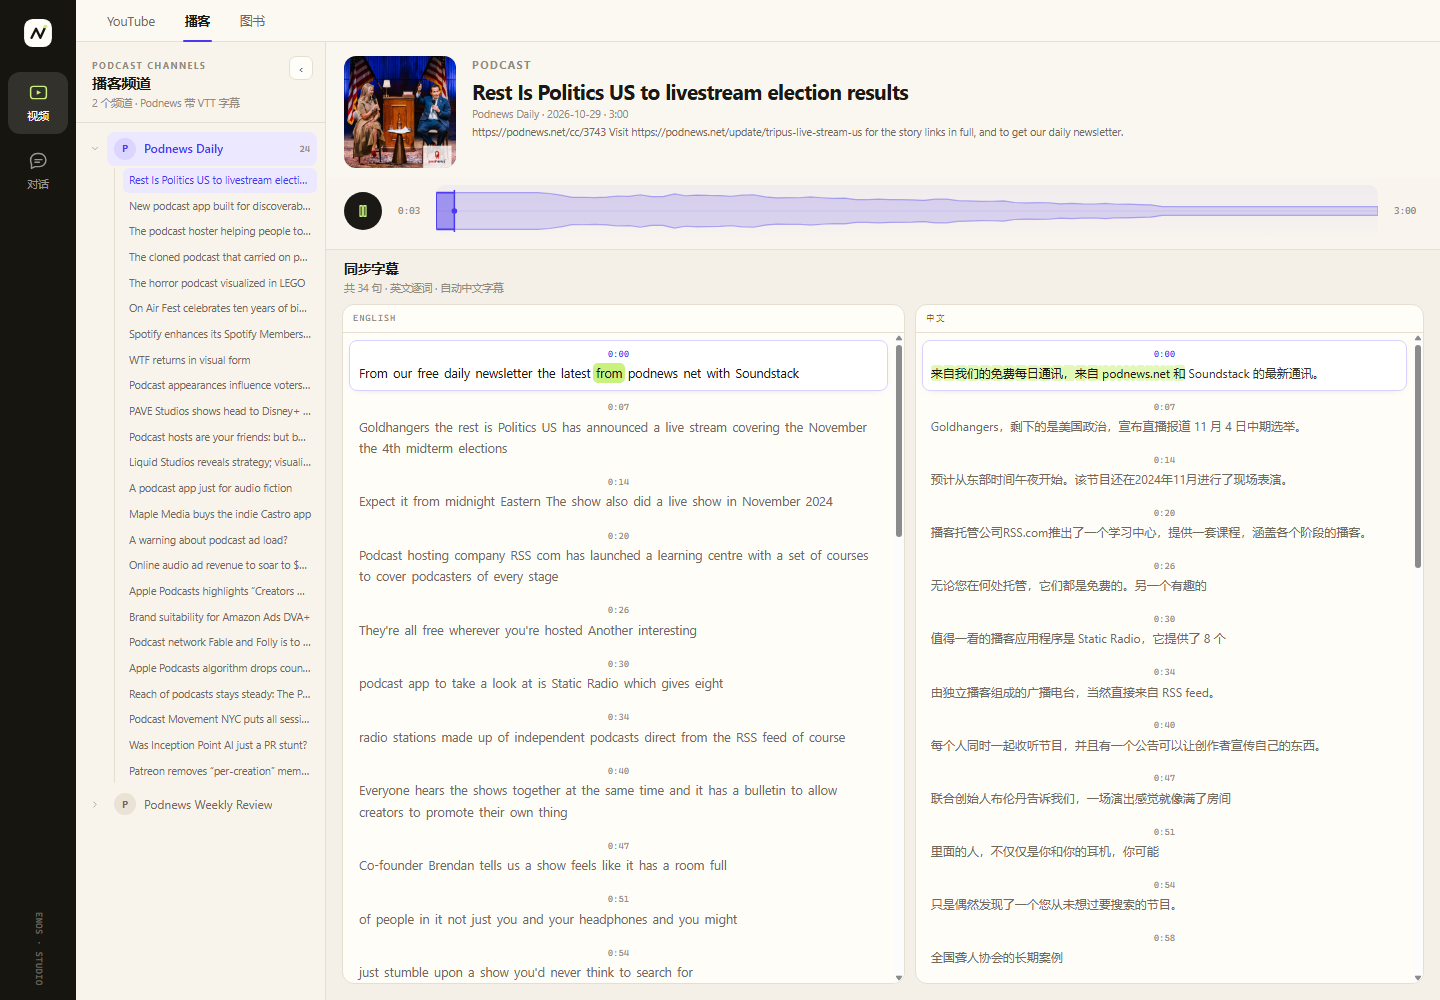
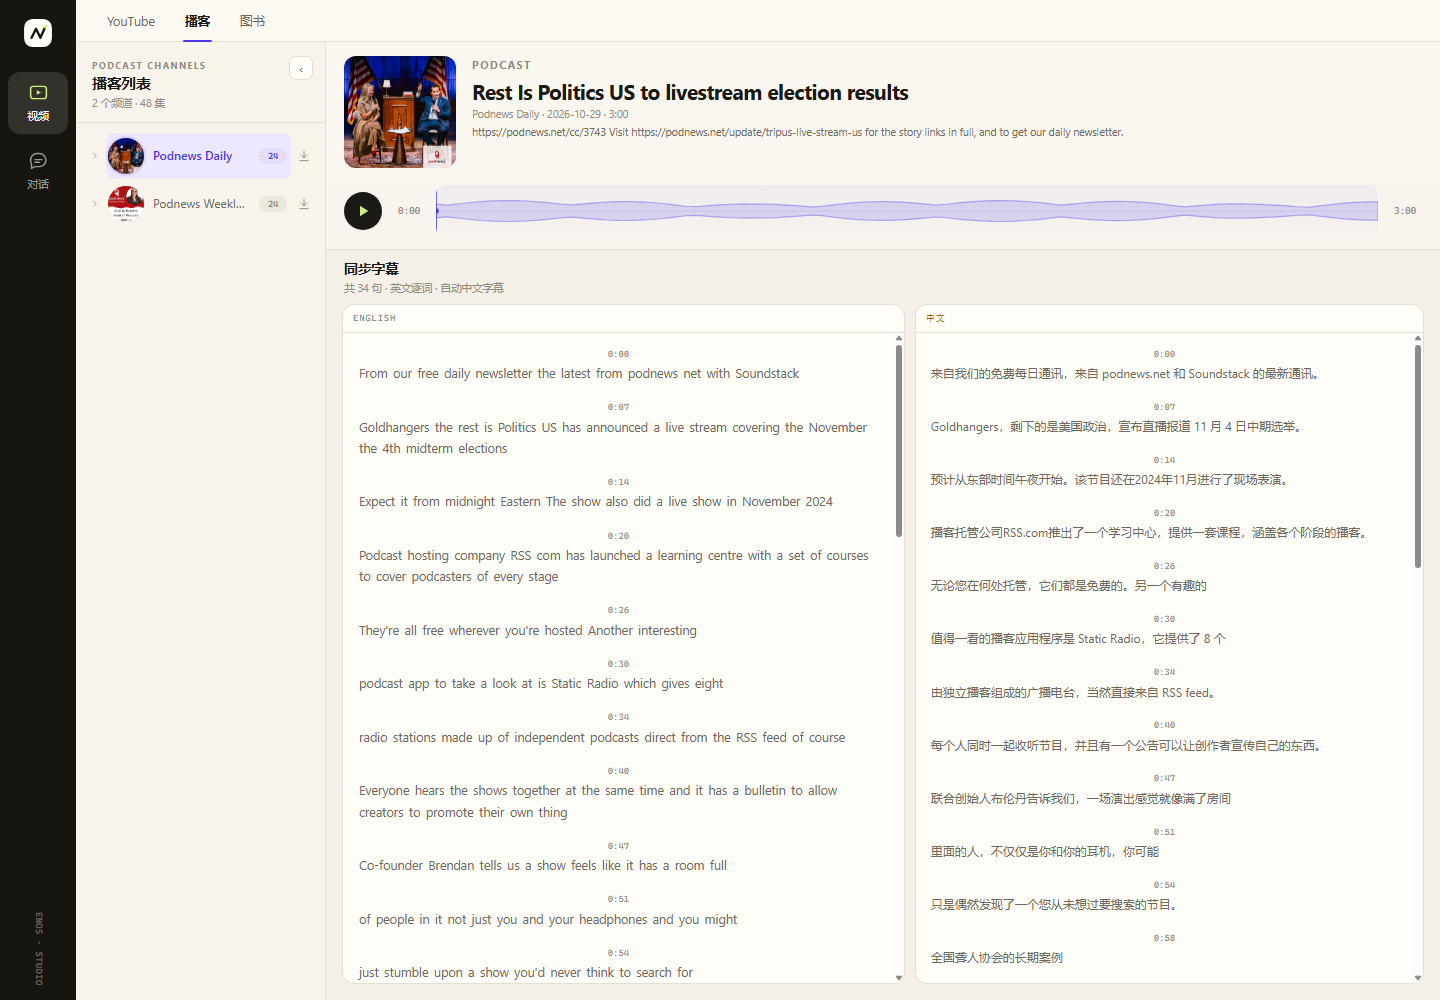
Improve podcast list and episode downloads
Show podcast covers and episode counts, cache episode loads, and add a download button for the latest episode.

diff --git a/public/js/videos.js b/public/js/videos.js
@@ -61,6 +61,7 @@ const podcast = {
   loading: false,
   channels: [],
   episodes: new Map(),
+  promises: new Map(),
   expanded: new Set(),
   selectedChannel: '',
   selectedEpisode: null,
@@ -349,13 +350,61 @@ function podcastChannelById(id) {
   return podcast.channels.find((channel) => channel.id === id) || null;
 }
 
+function loadPodcastEpisodes(channel) {
+  if (podcast.episodes.has(channel.id)) return Promise.resolve(podcast.episodes.get(channel.id));
+  if (podcast.promises.has(channel.id)) return podcast.promises.get(channel.id);
+  const promise = getPodcastEpisodes(channel.id)
+    .then((data) => {
+      const episodes = Array.isArray(data.episodes) ? data.episodes : [];
+      podcast.episodes.set(channel.id, episodes);
+      return episodes;
+    })
+    .finally(() => podcast.promises.delete(channel.id));
+  podcast.promises.set(channel.id, promise);
+  return promise;
+}
+
+function podcastChannelAvatar(channel, episodes) {
+  const image = episodes[0]?.image;
+  if (!image) return h('span', { class: 'podcast-avatar' }, initialOf(channel.name));
+  return h('span', { class: 'podcast-avatar' },
+    h('img', {
+      src: image,
+      alt: '',
+      loading: 'lazy',
+      onerror: (event) => {
+        event.currentTarget.replaceWith(document.createTextNode(initialOf(channel.name)));
+      },
+    }),
+  );
+}
+
+async function downloadPodcastLatest(channel) {
+  try {
+    const episodes = await loadPodcastEpisodes(channel);
+    const latest = episodes[0];
+    if (!latest) throw new Error('这个频道还没有可下载的单集');
+    const filename = `${String(latest.title || channel.name).replace(/[\\/:*?"<>|]+/g, ' ').replace(/\s+/g, '-').slice(0, 90)}.mp3`;
+    const anchor = document.createElement('a');
+    anchor.href = `/api/podcasts/audio?channel=${encodeURIComponent(channel.id)}&episode=${encodeURIComponent(latest.id)}&download=1`;
+    anchor.download = filename;
+    document.body.append(anchor);
+    anchor.click();
+    anchor.remove();
+    toast(`开始下载：${latest.title}`, 'ok', 2800);
+  } catch (error) {
+    toast(error.message || '播客下载失败', 'err', 3600);
+  }
+}
+
 function renderPodcastTree() {
   if (state.tab !== 'podcast' || state.view !== 'videos') return;
   channelList.replaceChildren();
   treeEyebrow.textContent = 'PODCAST CHANNELS';
-  treeTitle.textContent = '播客频道';
+  treeTitle.textContent = '播客列表';
+  const loadedEpisodes = [...podcast.episodes.values()].reduce((total, items) => total + items.length, 0);
   treeCount.textContent = podcast.channels.length
-    ? `${podcast.channels.length} 个频道 · Podnews 带 VTT 字幕`
+    ? `${podcast.channels.length} 个频道 · ${loadedEpisodes || '…'} 集`
     : podcast.loading ? '正在读取播客频道…' : '暂无播客频道';
   if (!podcast.channels.length) {
     channelList.append(h('div', { class: 'tree-empty' }, podcast.loading ? '正在读取播客源…' : '暂时没有可用的播客频道。'));
@@ -366,7 +415,7 @@ function renderPodcastTree() {
     const episodes = podcast.episodes.get(channel.id) || [];
     const expanded = podcast.expanded.has(channel.id);
     const selected = podcast.selectedChannel === channel.id;
-    const row = h('div', { class: 'tree-row' });
+    const row = h('div', { class: 'tree-row podcast-row' });
     row.append(h('button', {
       class: 'tree-caret',
       type: 'button',
@@ -375,13 +424,23 @@ function renderPodcastTree() {
       onclick: () => togglePodcastChannel(channel),
     }, h('span', { html: icon(expanded ? 'chevronDown' : 'chevronRight', 14) })));
     row.append(h('button', {
-      class: `tree-main${selected ? ' active' : ''}`,
+      class: `tree-main podcast-main${selected ? ' active' : ''}`,
       type: 'button',
       onclick: () => openPodcastChannel(channel, { selectLatest: true }),
     },
-    h('span', { class: 'tree-avatar' }, initialOf(channel.name)),
+    podcastChannelAvatar(channel, episodes),
     h('span', { class: 'tree-name' }, channel.name),
-    h('span', { class: 'tree-count' }, episodes.length ? String(episodes.length) : '')));
+    h('span', { class: 'tree-count podcast-count' }, episodes.length ? String(episodes.length) : '…')));
+    row.append(h('button', {
+      class: 'tree-download',
+      type: 'button',
+      title: '下载最新一期',
+      'aria-label': `下载 ${channel.name} 最新一期`,
+      onclick: (event) => {
+        event.stopPropagation();
+        downloadPodcastLatest(channel);
+      },
+    }, h('span', { html: icon('download', 14) })));
     const node = h('div', { class: 'tree-node' }, row);
     if (expanded && episodes.length) {
       node.append(h('div', { class: 'tree-sub' }, episodes.map((episode) => h('button', {
@@ -409,6 +468,13 @@ async function ensurePodcast() {
     podcast.initialized = true;
     podcast.loading = false;
     renderPodcastTree();
+    for (const channel of podcast.channels) {
+      loadPodcastEpisodes(channel)
+        .then(() => {
+          if (state.tab === 'podcast' && state.view === 'videos') renderPodcastTree();
+        })
+        .catch(() => { /* 单集数量失败时保留省略号 */ });
+    }
     const first = podcast.channels[0];
     if (first) await openPodcastChannel(first, { selectLatest: true });
   } catch (error) {
@@ -430,8 +496,7 @@ async function togglePodcastChannel(channel) {
   if (!podcast.episodes.has(channel.id)) {
     treeCount.textContent = `正在读取 ${channel.name}…`;
     try {
-      const data = await getPodcastEpisodes(channel.id);
-      podcast.episodes.set(channel.id, data.episodes || []);
+      await loadPodcastEpisodes(channel);
     } catch (error) {
       toast(error.message || '播客单集加载失败', 'err', 4200);
     }
@@ -441,13 +506,11 @@ async function togglePodcastChannel(channel) {
 
 async function openPodcastChannel(channel, { selectLatest = false } = {}) {
   podcast.selectedChannel = channel.id;
-  podcast.expanded.add(channel.id);
   if (!podcast.episodes.has(channel.id)) {
     podcast.loading = true;
     treeCount.textContent = `正在读取 ${channel.name}…`;
     try {
-      const data = await getPodcastEpisodes(channel.id);
-      podcast.episodes.set(channel.id, data.episodes || []);
+      await loadPodcastEpisodes(channel);
     } catch (error) {
       podcast.loading = false;
       toast(error.message || '播客单集加载失败', 'err', 4200);
@@ -488,7 +551,6 @@ function setPodcastInfo(channel, episode) {
 async function openPodcastEpisode(channel, episode) {
   podcast.selectedChannel = channel.id;
   podcast.selectedEpisode = episode;
-  podcast.expanded.add(channel.id);
   podcast.translateSeq += 1;
   podcast.translating = false;
   renderPodcastTree();

diff --git a/public/css/studio.css b/public/css/studio.css
@@ -126,6 +126,28 @@
 }
 .tree-video:hover { background: rgba(73, 56, 239, 0.06); color: var(--ink-soft); }
 .tree-video.active { background: var(--accent-soft); color: var(--accent); }
+.podcast-row { margin: 2px 0; gap: 0; }
+.podcast-main { height: 46px; gap: 9px; padding: 0 4px 0 2px; }
+.podcast-avatar {
+  width: 36px; height: 36px; border-radius: 50%; flex: none; overflow: hidden;
+  display: grid; place-items: center; background: #e8e1d4; color: var(--muted);
+  font-size: 11px; font-weight: 700; box-shadow: inset 0 0 0 1px rgba(0,0,0,.04);
+}
+.podcast-avatar img { width: 100%; height: 100%; object-fit: cover; display: block; }
+.podcast-main.active .podcast-avatar { box-shadow: 0 0 0 2px #d9d2ff; }
+.podcast-count {
+  margin-left: auto; min-width: 28px; padding: 2px 6px; border-radius: 999px;
+  background: #ece7dc; color: #7d766b; text-align: center; font-family: var(--mono);
+  font-size: 8.5px; line-height: 1.5;
+}
+.podcast-main.active .podcast-count { background: #e4ddff; color: var(--accent); }
+.tree-download {
+  width: 26px; height: 26px; flex: none; border: 0; border-radius: 7px;
+  display: grid; place-items: center; background: transparent; color: var(--faint);
+  cursor: pointer; padding: 0;
+}
+.tree-download:hover { background: rgba(73,56,239,.07); color: var(--accent); }
+.tree-download svg { width: 14px; height: 14px; }
 .tree-empty { padding: 18px 12px; color: var(--faint); font-size: 11.5px; line-height: 1.65; }
 
 /* Preview pane */

diff --git a/README.md b/README.md
@@ -241,7 +241,7 @@ npm start
 
 - 服务端 `server/podcasts.mjs` 读取 RSS，筛选带 `text/vtt` 的 episode，解析 `enclosure` 音频、封面、日期、时长；
 - 拉取 VTT 后按时间轴切 cue，合并短句，再按词长分配词级时间；返回给前端的 cue 结构、`normalizeCues` / `findCueIndex` / `findWordIndex` / `activeCharCount` 与视频页完全共用；
-- 前端左侧是频道/单集导航树，右侧顶部是自定义音频播放器：播放/暂停、当前时间/总时长、可点击和拖动的 **Web Audio 动态曲线**（AnalyserNode 实时频谱），下面 English / 中文两列同步高亮；点字幕会 seek 音频；
+- 前端左侧是播客列表：圆形封面、频道名、集数徽标和「下载最新一期」按钮；点击频道切换内容，点击箭头展开单集；右侧顶部是自定义音频播放器：播放/暂停、当前时间/总时长、可点击和拖动的 **Web Audio 动态曲线**（AnalyserNode 实时频谱），下面 English / 中文两列同步高亮；点字幕会 seek 音频；
 - 音频由服务端 `/api/podcasts/audio` 以 Range 流式代理，浏览器只访问同源地址，避免 op3/buzzsprout 的重定向、User-Agent 和 CORS 问题；
 - 中文仍复用视频页的翻译管线：官方/模型优先，无 Key 时用 Google Translate 免费兜底；长单集会自动分批翻译并显示进度；
 - 封面来自 `podnews.net` / `storage.buzzsprout.com`，CSP 已放行；浏览器需要能访问封面域，音频本身由服务端代理。

diff --git a/docs/DESIGN.md b/docs/DESIGN.md
@@ -412,7 +412,7 @@ YouTube 的机器人验证是**瞬时**的：同一个视频可能第一次 `LOG
 
 前端播客视图：
 
-- 左侧频道树复用工作台树：频道节点可展开 episode 子列表，选中单集；
+- 左侧频道列表：圆形封面、频道名、集数徽标、下载最新一期；默认不展开单集，点击箭头展开；
 - 右侧顶部自定义播放器：播放/暂停、时间、可点击/拖动的 Web Audio AnalyserNode 动态曲线；音频元素隐藏，MediaElementSource → Analyser → destination；
 - 下方 English / 中文两列独立滚动，使用与视频页相同的 `normalizeCues / findCueIndex / findWordIndex / activeCharCount`，按音频 `currentTime` 做词级/逐字高亮；
 - 点击字幕 seek 音频；中文复用视频翻译接口；长单集按 200 句分块并显示进度。
